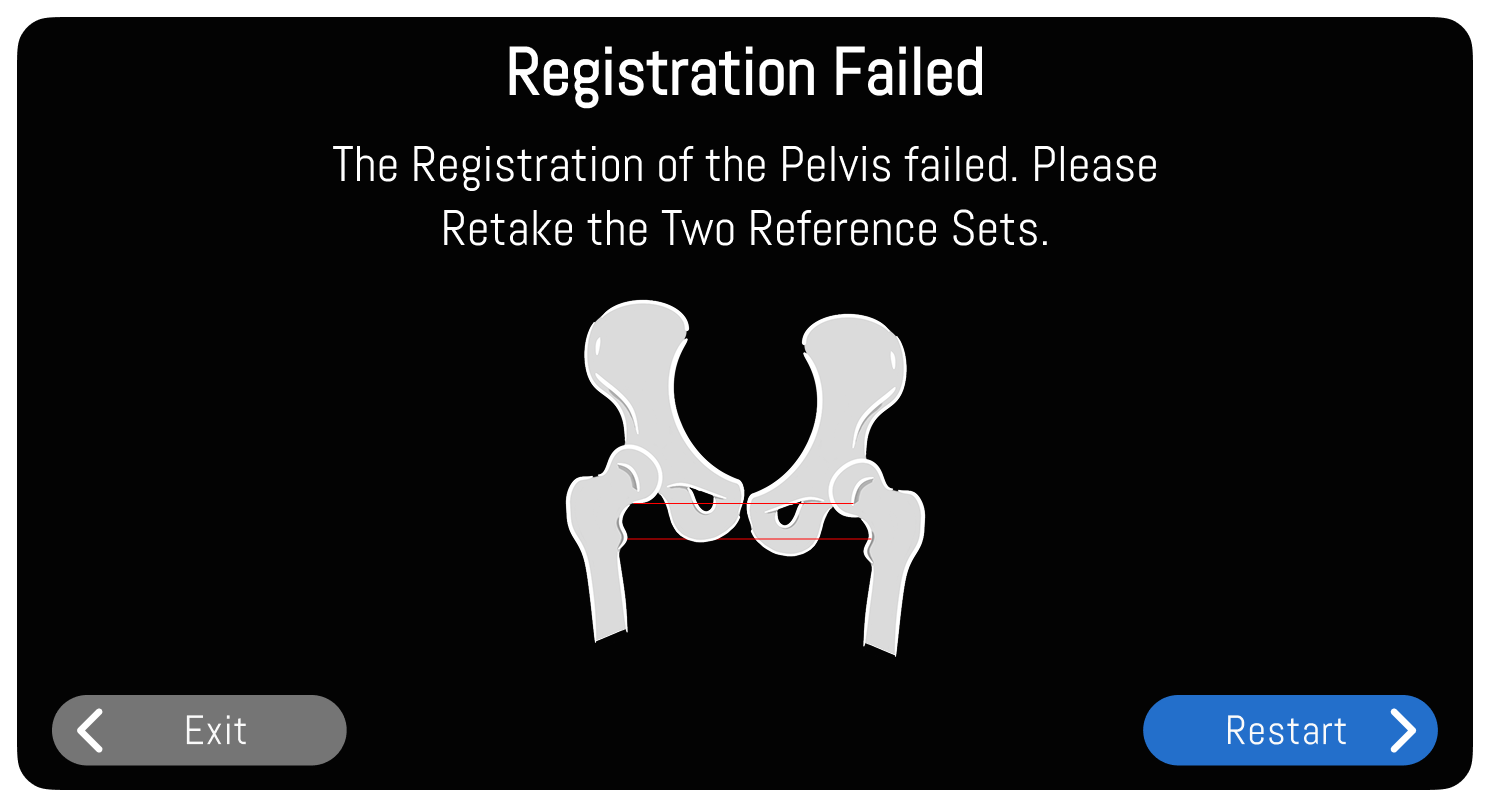
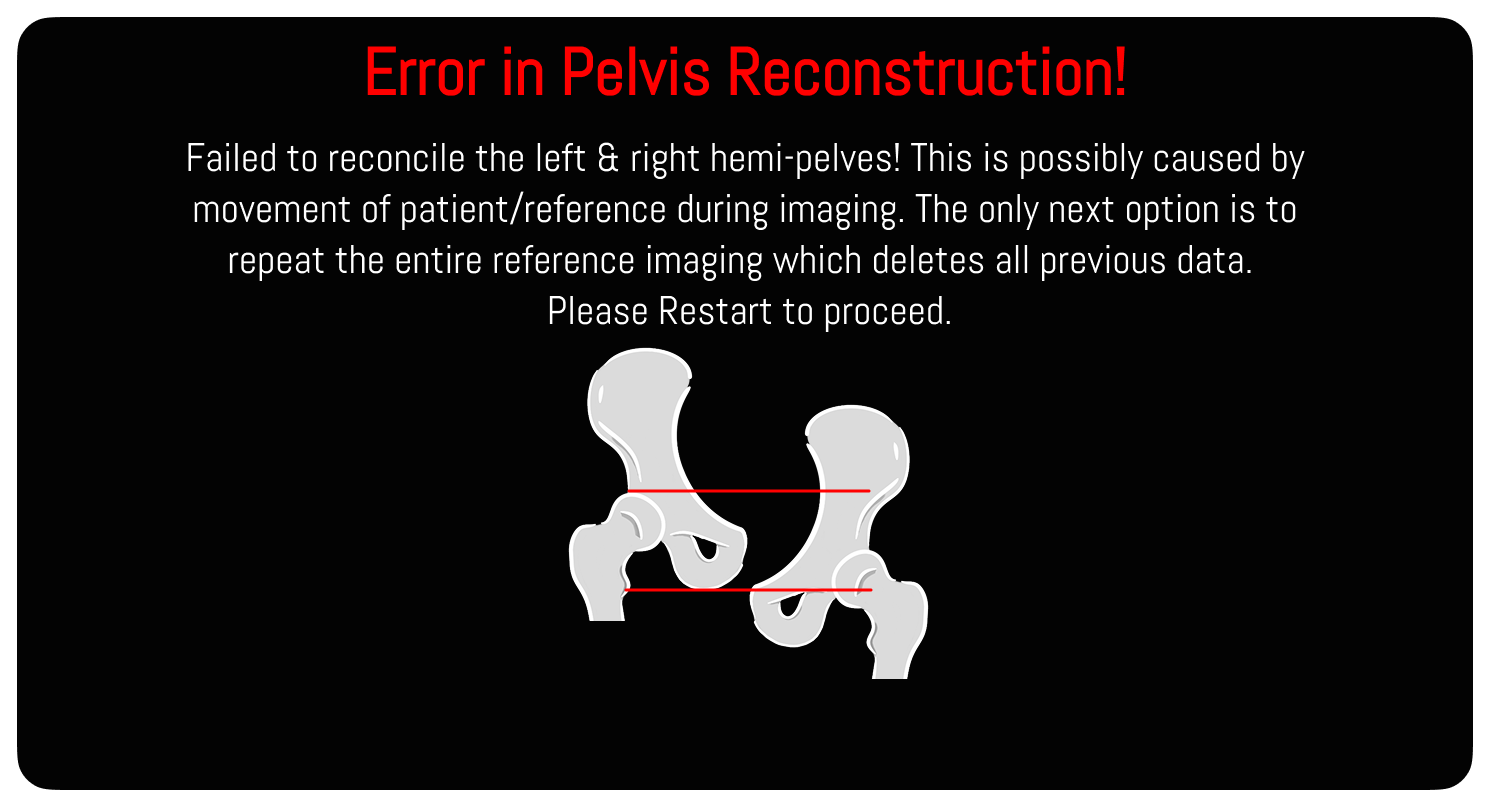
add starting warning page as pause 10, handleconnect in pause 10 page, correct positon for select template window, update reg error image

diff --git a/confir/src/L12/L12.js b/confir/src/L12/L12.js
@@ -1,6 +1,6 @@
 import React, { useState, useEffect, useRef } from 'react';
 
-function L12({pause, setPause, setReport, handlenext}) {
+function L12({pause, setPause, setReport, handlenext, handleConnect}) {
   const [next, setNext] = useState(null)
   if(pause === 1)
     return(
@@ -31,6 +31,17 @@ function L12({pause, setPause, setReport, handlenext}) {
         <img src={require('./GoBackButton.png')} alt="GoBackButton" style={{position:'absolute', top:'765px', left:'267px', zIndex:10}} onClick={()=>setPause(0)}/>
         <img src={require('./ContinueButton.png')} alt="ContinueButton" style={{position:'absolute', top:'765px', left:'1359px', zIndex:10, cursor:'pointer'}} onClick={() =>{
           handlenext('next')
+        }}/>
+      </div>
+    )
+  if(pause === 10)
+    return(
+      <div>
+        <img src={require('./RefPauseWindow.png')} alt="RefPauseWindow" style={{position:'absolute', top:'77px', left:'217px', zIndex:10}}/>
+        <img src={require('./GoBackButton.png')} alt="GoBackButton" style={{position:'absolute', top:'765px', left:'267px', zIndex:10}} onClick={()=>setPause(0)}/>
+        <img src={require('./ContinueButton.png')} alt="ContinueButton" style={{position:'absolute', top:'765px', left:'1359px', zIndex:10, cursor:'pointer'}} onClick={()=>{
+          handleConnect()
+          setPause(0)
         }}/>
       </div>
     )

diff --git a/confir/src/App.js b/confir/src/App.js
@@ -1002,10 +1002,10 @@ const updateRotationSavedState = (currentRotationAngle) => {
   return (
     <div className="app">
       
-      {!isConnected ? (
+      {!isConnected ? ( pause === 10 ? <L12 pause={pause} setPause={setPause} handlenext={handlenext} handleConnect={handleConnect}/>:
         <div>
           {/*L13 Setup, render when iscoonected false*/}
-          <L13 handleConnect={handleConnect} setSelectedCArm={setSelectedCArm}/>  
+          <L13 setPause={setPause} setSelectedCArm={setSelectedCArm}/>  
         </div>
       ) : (
         <>
@@ -1141,9 +1141,7 @@ const updateRotationSavedState = (currentRotationAngle) => {
       {report&&<L11 setReport={setReport} stage={stage} setError={setError}/>}
             
       {/*L12 Pause, render when next button clicked */}
-      {<L12 pause={pause} setPause={setPause} setReport={setReport} handlenext={handlenext}/>}
-      
-      {/*L13 Setup, render when iscoonected false*/}
+      {<L12 pause={pause} setPause={setPause} handlenext={handlenext} handleConnect={handleConnect}/>}
 
       {/*L14 Setting, render when setting true*/}
       {setting&&<L14/>}

diff --git a/confir/src/L21/L21.js b/confir/src/L21/L21.js
@@ -88,7 +88,7 @@ const L21 = ({
         className="left-template" 
         style={{ 
           position: 'absolute', 
-          left: selectedTemplate === 'left' ? '613px' : '618px', 
+          left: selectedTemplate === 'left' ? '650px' : '655px', 
           top: selectedTemplate === 'left' ? '359px' : '364px',
           cursor: 'pointer' 
         }}
@@ -102,7 +102,7 @@ const L21 = ({
         className="right-template" 
         style={{ 
           position: 'absolute', 
-          left: selectedTemplate === 'right' ? '1297px' : '1302px', 
+          left: selectedTemplate === 'right' ? '993px' : '998px', 
           top: '364px',
           cursor: 'pointer' 
         }}

diff --git a/confir/src/L13/L13.js b/confir/src/L13/L13.js
@@ -1,6 +1,6 @@
 import React, { useState, useEffect } from 'react';
 
-function L13({ handleConnect }) {
+function L13({ setPause }) {
   const [cArms, setCArms] = useState([]);
   const [selectedCArm, setSelectedCArm] = useState('');
   const [cArmSelected, setCarmSelected] = useState(false);
@@ -84,7 +84,7 @@ function L13({ handleConnect }) {
       setCurrentStep(4);
       setAllChecksComplete(true); // Final step
     } else if (currentStep === 4 && allChecksComplete) {
-      handleConnect(); // When all checks complete, proceed to next screen
+      setPause(10); // When all checks complete, proceed to next screen
     }
   };
 

diff --git a/confir/src/L19/L19.js b/confir/src/L19/L19.js
@@ -4,7 +4,7 @@ function L19({handlerestart}) {
     return(
       <div>
         <img src={require('./RegistrationError.png')} alt="RegistrationError" style={{position:'absolute', top:'69px', left:'216px', zIndex:13}}/>
-        <img src={require('./RestartButton.png')} alt="RestartButton" style={{position:'absolute', top:'765px', left:'1358px', zIndex:13}} onClick={handlerestart}/>
+        <img src={require('./RestartButton.png')} alt="RestartButton" style={{position:'absolute', top:'765px', left:'810px', zIndex:13}} onClick={handlerestart}/>
       </div>
     )
 }
